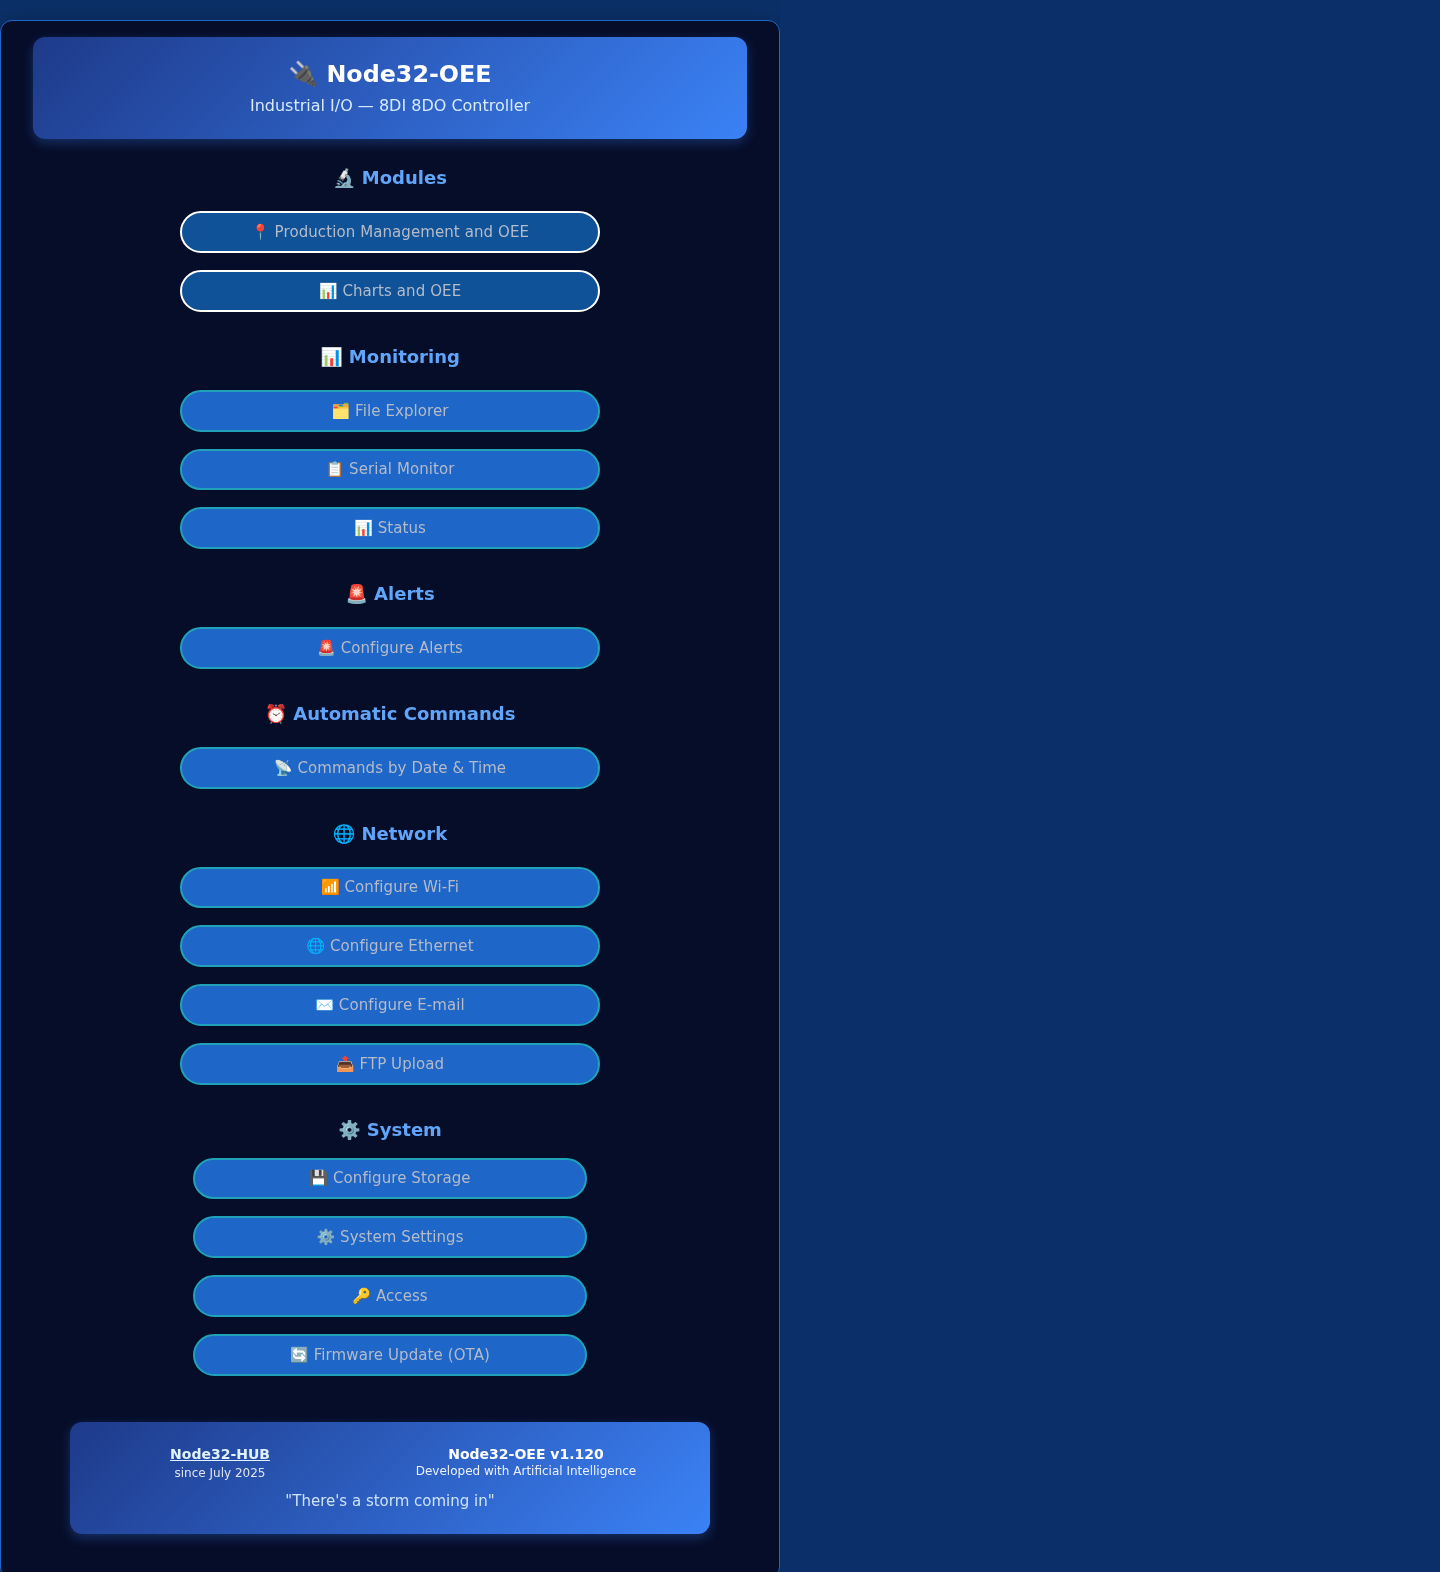
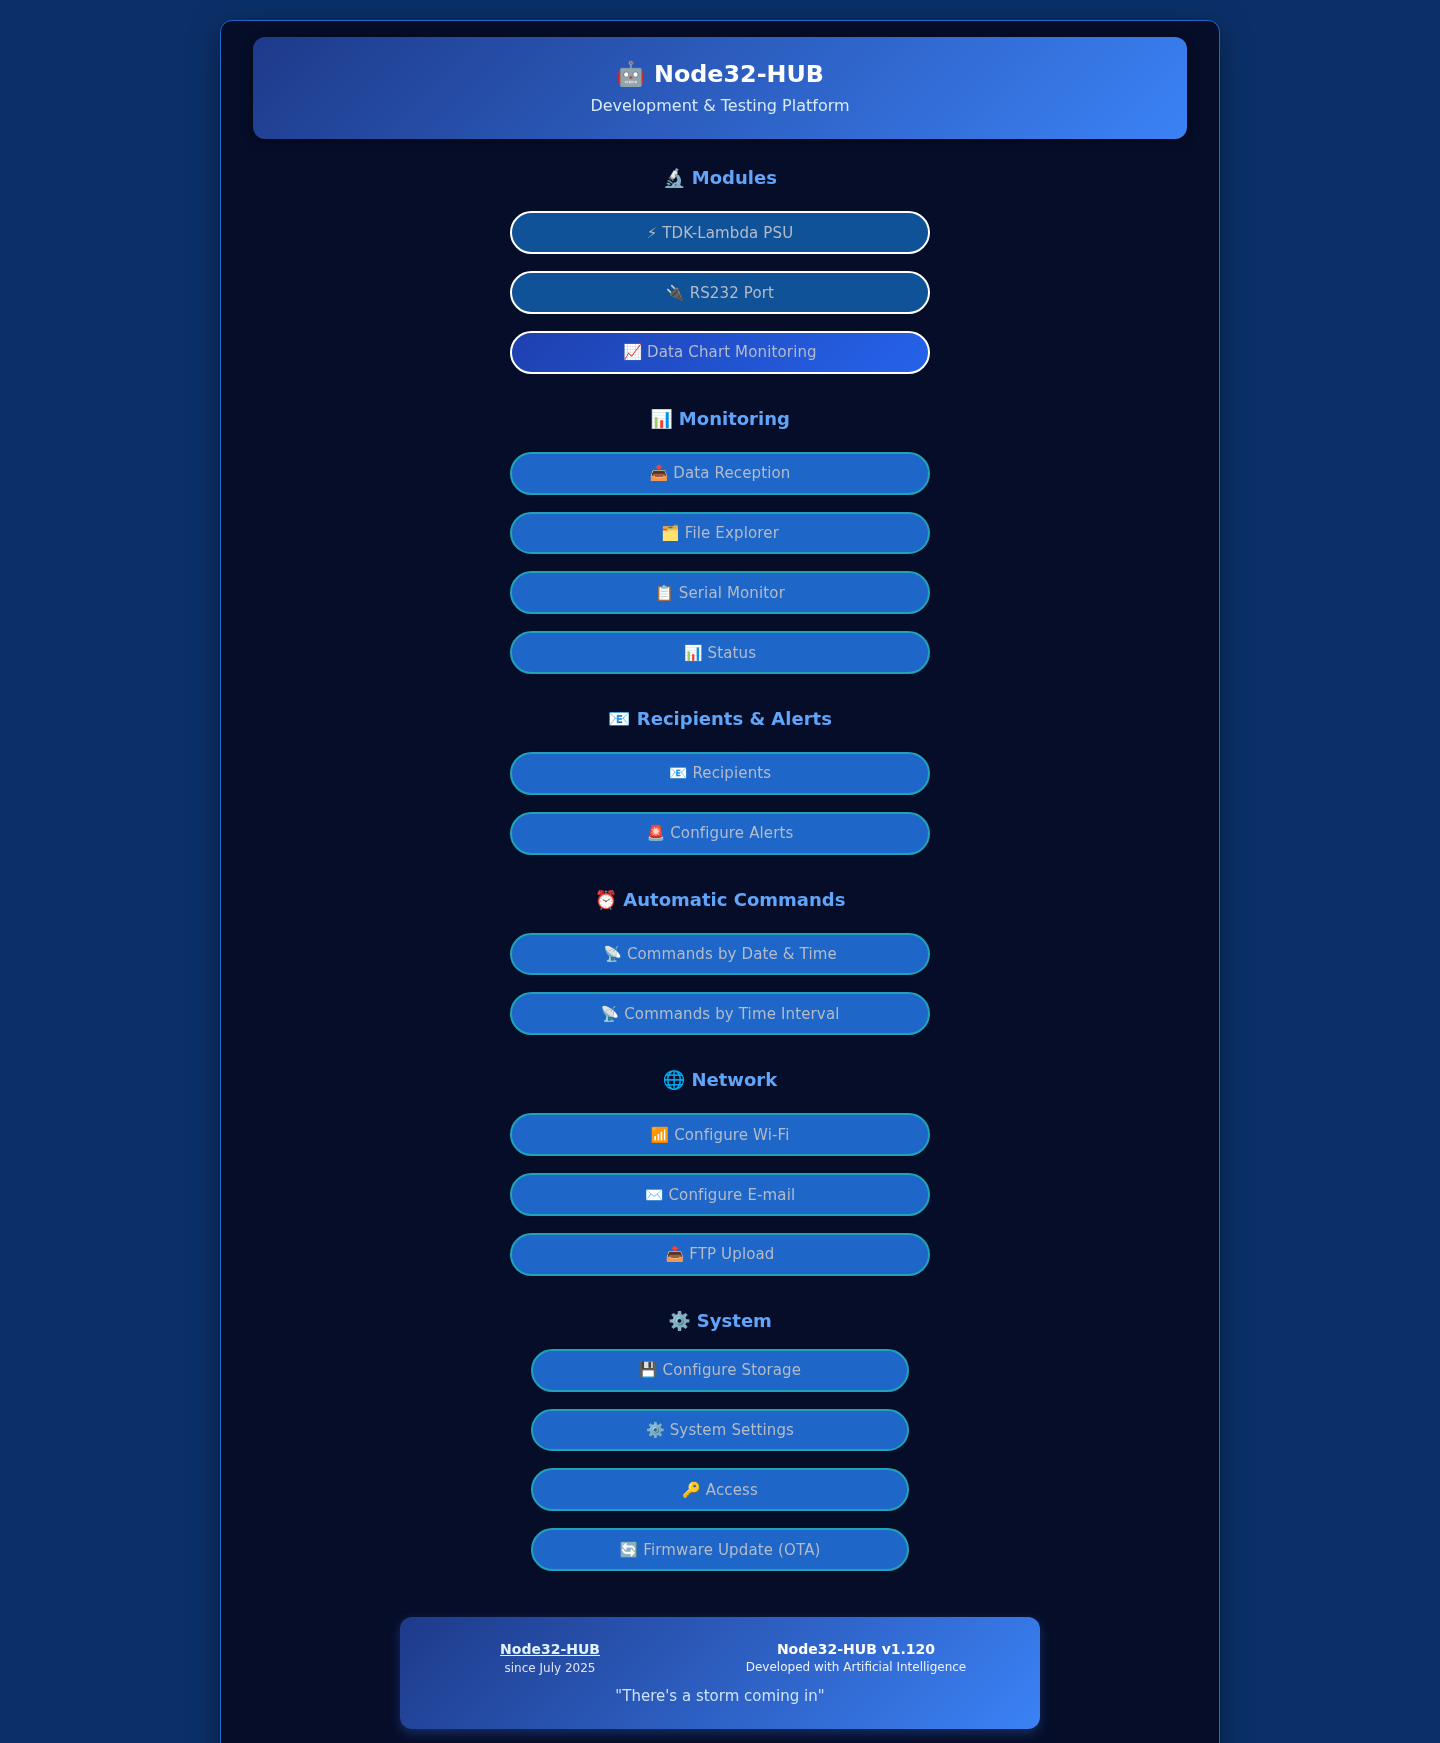
docs(desktop): refresh home, status, sensor_charts and tdk_lambda
home (white border on Data Chart Monitoring), status (three tabs, storage inside
System, page now renders on the first load), sensor_charts (TDK dual-line
auto-configuration with V+A / W / A and correct local times) and tdk_lambda (the
Save configuration button). Rows carry the new build, sizes and what each image
proves.

diff --git a/PAGES/desktop/README.md b/PAGES/desktop/README.md
@@ -263,7 +263,7 @@ the tab was on Home. If `location` is not the requested path, the capture is voi
 | `mq135_config.png` | HomeE32 (`ENVIRONMENT`), `192.168.1.24` | `v1.120 - Nov 15 2026 16:08:35 WET`, ETag `v1.120 - Nov 15 2026 16:08:35 WET` | 1440 × 1690 · 172 508 B | HTTP 200 + English UI (`/api/lang` `en`) + 0 unresolved tokens + `/core.css` 200 + `/auto.js?v=1.120` 200 + 1 211 chars / 4 controls rendered (Main Control with `📅 Last reading: 05:20:25 (17/11/2026)` + Sensor Stable, Calibration with R0 13008 Ω, ADC RAW 3524 / RS 7606.5 Ω / RS/R0 0.585, Detected Gases for the eight gases with the AQI scale (`Good (46)`), Output Options, Save Configuration) + no broken images + overlay hidden + PNG 1440 wide → **11/11 checks pass**. **Not from `.29`:** the Waveshare pack has no MQ-135, so `/mq135-config` is 404 there; HomeE32 `.24` is the pack that serves it. Captured with `--click-text OK` (the page opens a *Configuration loaded* alert on load) and `--reload`, because on a **cold** browser the i18n pass lands after the config fetch and overwrites the timestamp element with its static text `No reading available` — the second render shows the real reading (`PAGES/BACKLOG.md` MQ-1). `--anon` ran (nothing to mask: gas ppm, offsets, R0/ADC values, no address).
 | `rs232.png` | Waveshare 8DI8DO (`Node32-OEE`), `192.168.1.29` | `v1.120 - Nov 15 2026 19:16:43 WET`, ETag `v1.120 - Nov 15 2026 19:16:43 WET` | 1440 × 1431 · 131 209 B | HTTP 200 + English UI (`/api/lang` `en`) + 0 unresolved tokens + `/core.css` 200 + `/auto.js?v=1.120` 200 + 1 156 chars / 7 controls rendered (Configuration and Advanced tabs, `Status: Active (19200 bps)`, Enable RS232, Baud 19200 / Data 8 / Parity None / Stop 1, Templates card with Save Template + Delete Selected, Save) + no broken images + overlay hidden + PNG 1440 wide → **11/11 checks pass**; `--anon` masked 6 JSON keys (`wifi.ssid`, `wifi.password`, `smtp.username`, `smtp.password`, `email.destination`, `email.subject`) and the rendered text stayed clean. **This page is also the finding:** the build has `ENABLE_RS232 0` / `ENABLE_SNIFFER 0` (its own self-test manifest expects `PAGE("/rs232", (ENABLE_RS232 || ENABLE_SNIFFER))`), yet `/rs232` answers 200, reports **Active (19200 bps)** and `GET /api/rs232-status` + `GET /api/rs232-templates` are **404** — `PAGES/BACKLOG.md` RS232-8
 | `modbus_tcp.png` | Cam-P4 (`Cam-P4`), `192.168.1.18` | `v1.120 - Nov 15 2026 16:09:06 WET`, ETag `v1.120 - Nov 15 2026 16:09:06 WET` | 1440 × 1041 · 80 523 B | HTTP 200 + English UI (`/api/lang` `en`) + 0 unresolved tokens + `/core.css` 200 + `/auto.js?v=1.120` 200 + 536 chars / 6 controls rendered (Live / RTU tabs, Global Configuration with the two global enables, the register-columns legend, TCP Devices with `+ Add TCP Device`, TCP Scan with the subnet/start/end/timeout fields, Save TCP) + no broken images + overlay hidden + PNG 1440 wide → **11/11 checks pass**; `--anon` ran (nothing to mask — subnet/start/end IPs are the plain `192.168.1` scan defaults, no credential). **Only `.18` serves it:** `ENABLE_MODBUS_TCP 1` in `pack_cam_p4.h:117-118`, 404 on `.29`/`.24`/`.9`. **Two visible defects, both in the BACKLOG:** the scan description prints the broken attribute `data-i18n='mbScanSubnet'>` as text (MODBUS-6) and the page is still half Portuguese on an English build — subtitle, both global enables, the legend summary, `Subnet (ex: 192.168.1)` and `IP fim` (MODBUS-3)
-| `sensor_charts.png` | Bench unit HomeE32 (RS232 + TDK), `192.168.1.24` | `v1.120 - Nov 28 2026 13:43:53 WET`, ETag absent (dynamic page) | 1440 × 2110 · 182 473 B | **Live capture** (2026-11-28) of a pack with **nothing to plot**: no AHT20/MQ135, no Modbus/proximity and `/api/rs232-cols` `cols:0` for today. The page now shows the **"No chart sources on this device"** banner with the reason (configure RS232 chart columns / SD logging on `/rs232`; module pages keep their own trend, e.g. `/tdk-lambda`) instead of blank canvases. The old fallback invented 8 RS232 columns, which made the page look configured while empty; it only adds the real `cols`. |
+| `sensor_charts.png` | Bench unit HomeE32 (RS232 + TDK), `192.168.1.24` | `v1.120 - Nov 28 2026 16:35:47 WET`, ETag absent (dynamic page) | 1440 × 2185 · 372 042 B | **Live capture** (2026-11-28) with the TDK auto-configuration working: **dual line** on chart 1 (V left, A right), **Power** on chart 2 and **Current** on chart 3, all fed by the module ring (no sensors, no RS232 columns, nothing chosen by hand). X axis in local time (16:40–16:45), Min/Max/Avg/Current populated. |
 | Ethernet | `/ethernet` | `ethernet.png` | **done** |
 | E-mail (SMTP) | `/email` | `email.png` | **done** |
 | Recipients | `/recipients` | `recipients.png` | **done** |
@@ -371,7 +371,7 @@ the tab was on Home. If `location` is not the requested path, the capture is voi
 
 | Page | Route | Image | Status |
 |---|---|---|---|
-| TDK-Lambda / Genesys | `/tdk-lambda` | `tdk_lambda.png` | `page_tdk_lambda_asset.cpp` (fragment) + the page shell | 1440 × 1378 · 145 956 B | **Live capture** (2026-11-28) from the bench unit, no longer a harness render. Shows the module switch (`Module enabled — poll, CSV and SCPI`, saved in `tdklambda.json`), the line-test verdict (`line OK` + `IDN? ok | REV? ok | SN? ok | DVC? ok | MODE? ok`) and live 600.04 V / 1.280 A from the simulator. The Setup tab also gained **Rated V / Rated I** and **Apply RS232 defaults (9600 8N1)**. Build `v1.120 - Nov 28 2026 13:43:53 WET`. |
+| TDK-Lambda / Genesys | `/tdk-lambda` | `tdk_lambda.png` | `page_tdk_lambda_asset.cpp` (fragment) + the page shell | 1440 × 1430 · 148 966 B | **Live capture** (2026-11-28). Shows the module switch, the line-test verdict and the live values; at the end of the page, the new **💾 Save configuration** button re-sends every choice in one POST (the per-control autosave stays). Setup also carries Rated V/I and **Apply RS232 defaults**. Build `v1.120 - Nov 28 2026 16:35:47 WET`. |
 | `/ipg-laser` | `ipg_laser.png` | **done** (smoke — §3.12; the page script is dead as shipped, `BACKLOG.md` IPG-7) |
 | USB/IP server | `/usb-server` | `usb_server.png` | **done** (smoke — §3.12) |
 
@@ -483,8 +483,8 @@ captured with `--expand` (all sections open); the row says so when it applies.
 
 | Image | Board / pack | Firmware · ETag | Viewport · size | Verified |
 |---|---|---|---|---|
-| `home.png` | Waveshare 8DI8DO (`Node32-OEE`), `192.168.1.29` | `v1.120 - Nov 15 2026 19:16:43 WET`, ETag `…\|c1\|s1\|w1` | 1440 × 1572 · 182 303 B | HTTP 200 + English + 0 unresolved tokens + `/core.css` 200 (13 114 B) + `/auto.js?v=v1.120` 200 (65 551 B) + 5 sections / 15 buttons rendered + no broken images + overlay hidden + PNG 1440 wide → **10/10 checks pass** |
-| `status.png` | Bench unit HomeE32 (RS232 + TDK), `192.168.1.24` | `v1.120 - Nov 28 2026 13:43:53 WET`, ETag same | 1440 × 1056 · 89 576 B | **Live capture** (2026-11-28) after the status page was split into **four tabs**. Captured with `--click "#stTabs .status-tab-btn:nth-child(4)"`, so the image shows the **Heap / DRAM** tab active: 152/296 KB used, frag 30 %, largest block 100 KB, the per-module table and the Σ footer. Storage (SD/Flash/NVS) keeps its own tab and no longer carries the heap block; sections still route by their localized header. `desktop_shot.js` verified 200 + English + 0 unresolved tokens + no broken images + PNG 1440 wide. |
+| `home.png` | Bench unit HomeE32 (RS232 + TDK), `192.168.1.24` | `v1.120 - Nov 28 2026 16:35:47 WET`, ETag same | 1440 × 1743 · 211 314 B | **Live capture** (2026-11-28). The **Data Chart Monitoring** button in the Modules section now has the same **white border** as the TDK-Lambda and RS232 buttons (it was the only one without it). Home tiles, pack name and footer unchanged. |
+| `status.png` | Bench unit HomeE32 (RS232 + TDK), `192.168.1.24` | `v1.120 - Nov 28 2026 17:35:18 WET`, ETag same | 1440 × 1155 · 82 011 B | **Live capture** (2026-11-28) after the Storage tab was removed: **three pills** (System · Modules & I/O · Heap / DRAM). The System tab carries the system sections and the storage ones (MICRO SD / FLASH / NVS — not compiled on this pack, so WIFI/RS232/SMTP/LittleFS/NTP/Scheduler/OTA are the compiled modules listed). Also fixed in this pass: the page rendered empty when the first /api/status came back before the page session was ready (now retried) and stGroup compared labels without the generator's fallback (everything fell to Modules). |
 | `files.png` | Waveshare 8DI8DO (`Node32-OEE`), `192.168.1.29` | `v1.120 - Nov 15 2026 19:16:43 WET`, ETag absent (dynamic listing) | 1440 × 1055 · 70 938 B | HTTP 200 + English UI (`/api/lang` `en`) + 0 unresolved tokens + `/core.css` 200 + `/auto.js?v=1.120&b=…` 200 + 415 chars / 9 buttons / SD space card + 2 folder rows rendered + no broken images + overlay hidden + PNG 1440 wide → **11/11 checks pass**; no `--anon` needed (folder names `Equip15`/`LOGs`, sizes and dates only — no operator data). **Known gap, not the harness:** the table headers say `Tipo`/`Nome`/`Tamanho` (hardcoded PT, no `data-i18n`) → `PAGES/BACKLOG.md` FIL-7; the image keeps exactly what the board serves |
 | `sdcard.png` | Bench unit HomeE32 (RS232 + TDK), `192.168.1.24` | `v1.120 - Nov 28 2026 13:43:53 WET`, ETag absent | 1440 × 1348 · 150 812 B | **Live capture** (2026-11-28) after the EMAILDAY/LOGDAY/SENSORDAY help card was **removed** from this page (they are e-mail recipient commands; the examples live on `/recipients` only). The body is now settings (SD disabled on this unit → Flash fallback) → Save; the card's asset constant and its 8 i18n keys are gone, and a native test asserts it never comes back. |
 | `monitor.png` | Bench unit HomeE32 (RS232 + TDK), `192.168.1.24` | `v1.120 - Nov 28 2026 13:43:53 WET`, ETag absent | 1440 × 1816 · 159 680 B | **Live capture** (2026-11-28) with the RX buffer showing TDK-Lambda traffic (`DVC? / MODE?` and the six-field replies). **Left-aligned now**: a `<pre>` inside a centred section box inherited `text-align:center`, which made the log read as a wall of centred lines; core.css left-aligns `pre`/`textarea` inside those boxes and `#rx_text` says it explicitly. |
